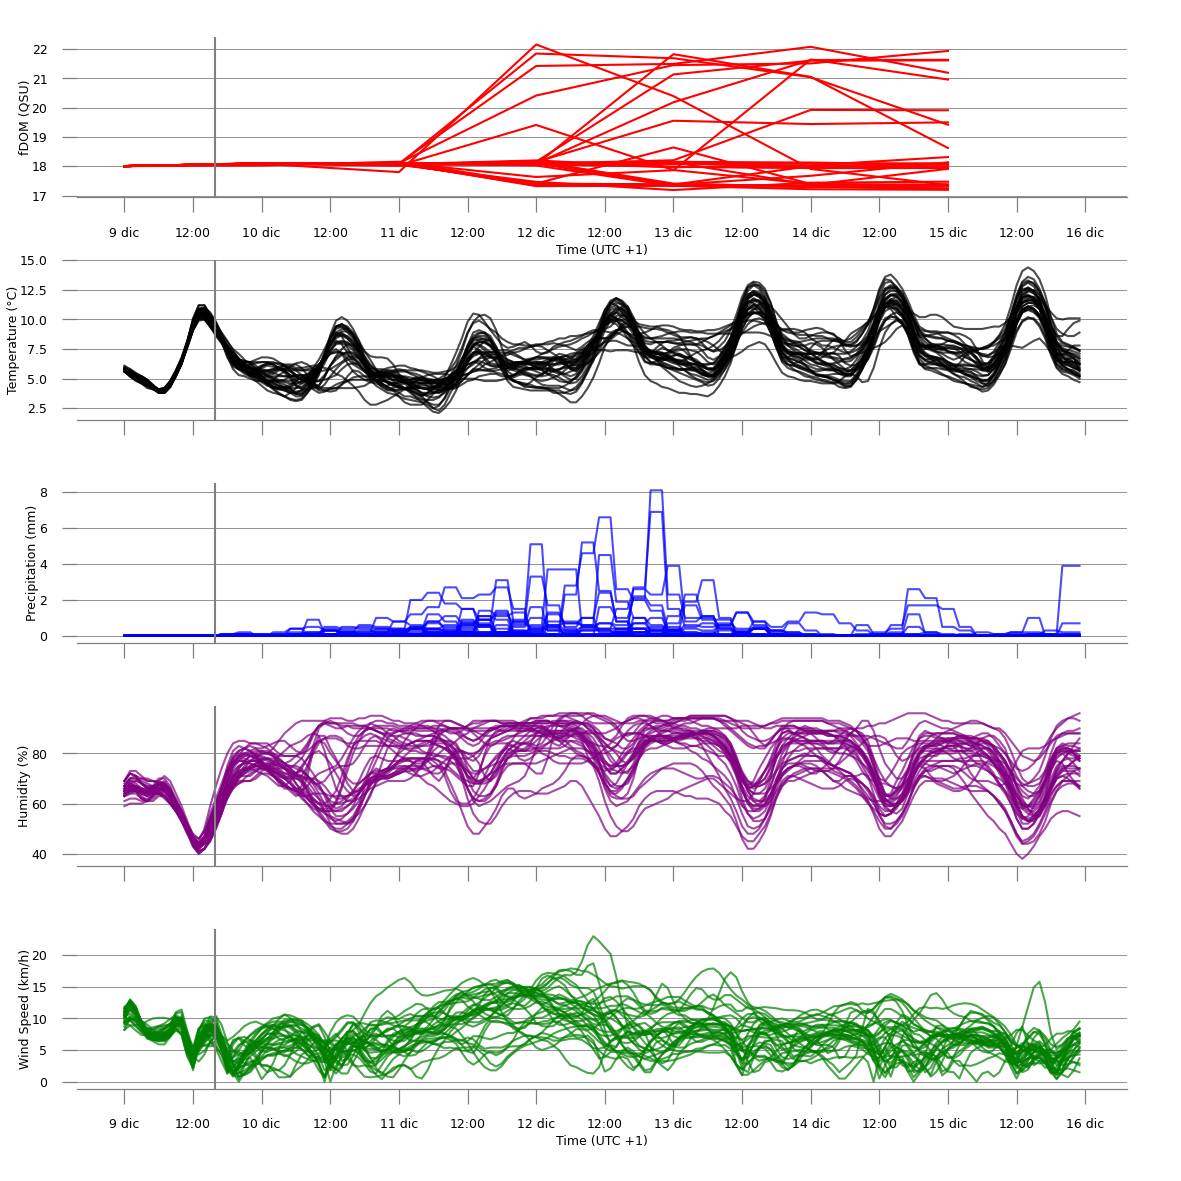
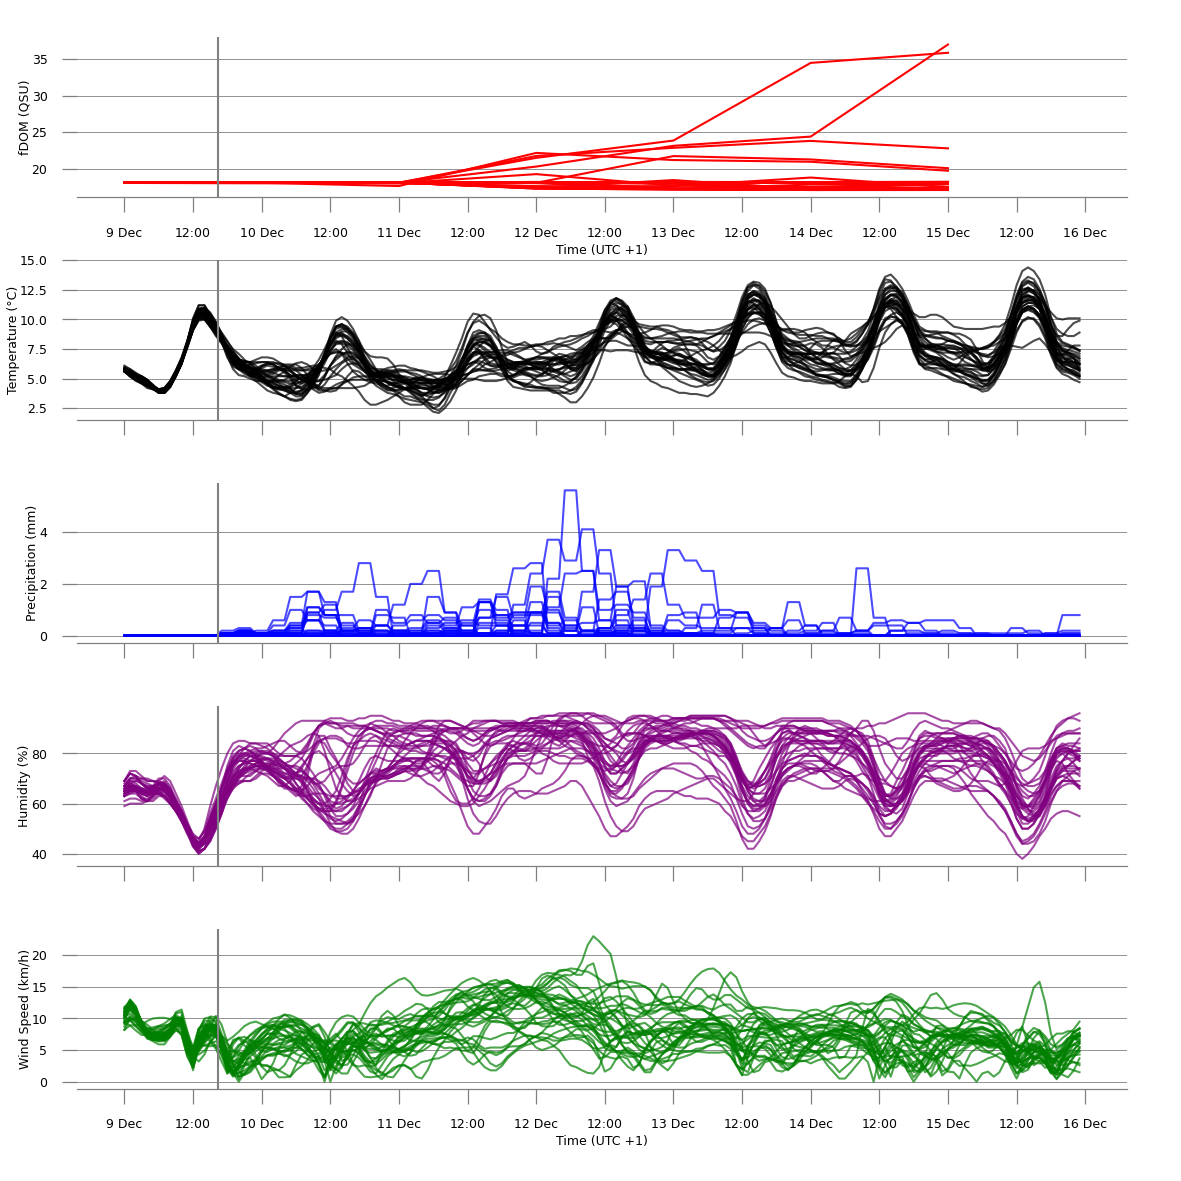
fix load rf

diff --git a/app_ensemble_fdom.py b/app_ensemble_fdom.py
@@ -122,6 +122,8 @@ def arrange_predictions(df_soil):
     all_predictions = pd.DataFrame()
     #members = members  # Define the number of members if not passed as a parameter
     
+    loaded_rf = load("data/random_forest_fdom.joblib")
+    
     # Loop through each member (0 to 29)
     for i in range(members):
         # Fetch and select relevant data for the current member
@@ -159,7 +161,7 @@ def plot_data(df, predictions):
     now = datetime.now()  # Get the current time
     fig, axs = plt.subplots(5, 1, figsize=(10 * cm, 10 * cm), sharex=True)  # Add an additional subplot for predictions
     fig.tight_layout(pad=0.5)
-    fig.subplots_adjust(hspace=0.1)
+    #fig.subplots_adjust(hspace=0.1)
 
     # Define a function to format y-axis
     def format_y_axis(ax, step):
@@ -185,11 +187,13 @@ def plot_data(df, predictions):
     axs[0].plot(unique_dates, predictions, lw=0.5, color="red")
     axs[0].axvline(now, color="gray", linestyle="solid", lw=0.5)
     axs[0].set_ylabel("fDOM (QSU)", fontsize=label_sizes, labelpad=0)
-    axs[0].tick_params(axis='x', labelbottom=True, color="gray", width=0.3)
+    #axs[0].tick_params(axis='x', labelbottom=True, color="gray", width=0.3)
+    axs[0].tick_params(axis='x', labelbottom=True, rotation=0, labelsize=label_sizes, color="gray", width=0.3)
     axs[0].xaxis.set_major_formatter(FuncFormatter(custom_date_formatter))
     axs[0].xaxis.set_major_locator(mdates.HourLocator(byhour=[0, 12]))  # Major ticks at 00:00 and 12:00
     format_y_axis(axs[0], step=5)
     axs[0].grid(axis='y', linewidth=0.2, color='gray')
+    axs[0].set_xlabel("Time (UTC +1)", fontsize=label_sizes, labelpad=1)
 
     # Plot 2: Temperature Ensemble Members
     for member in range(members):
